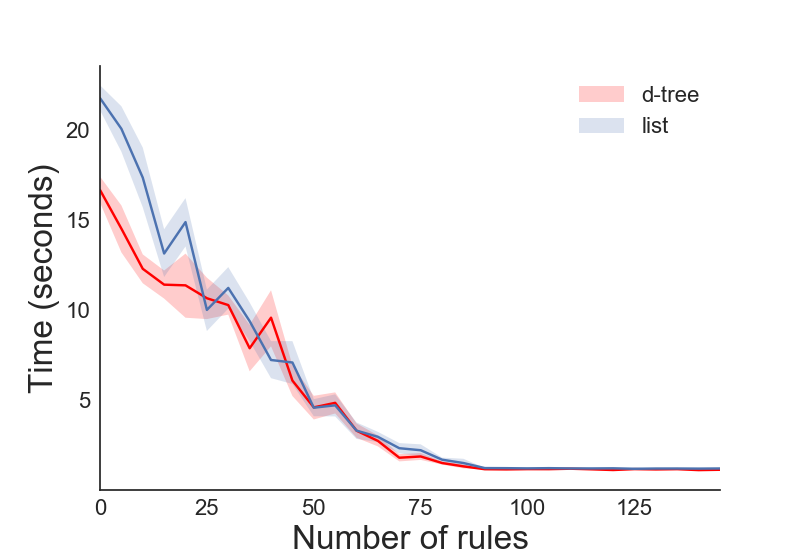
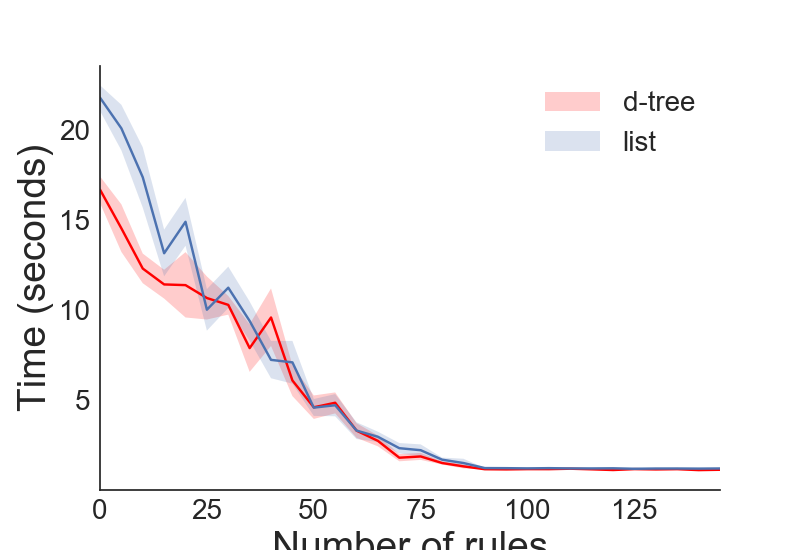
popl experiments

diff --git a/experiments/list_performance/generate_table.py b/experiments/list_performance/generate_table.py
@@ -1,0 +1,45 @@
+import csv
+from collections import defaultdict
+from glob import glob
+from argparse import ArgumentParser
+import os
+
+def load_file(filename):
+    output = defaultdict(lambda: 0)
+    row_count = 0
+    with open(filename, 'r') as f:
+        reader = csv.DictReader(f, delimiter="\t")
+        for row in reader:
+            row_count += 1
+            for experiment, value in row.items():
+                output[experiment] += float(value)
+    return {ex : (v / row_count) for ex, v in output.items()}
+
+def load_data(dirname):
+    data_files = glob(os.path.join(dirname, "*"))
+    output = {}
+    for f in data_files:
+        name = os.path.splitext(os.path.basename(f))[0]
+        data = load_file(f)
+        output[name] = data
+    return output
+
+def write_data(data, fields, filename):
+    with open(filename, "w") as f:
+        writer = csv.writer(f, delimiter="\t")
+        writer.writerow([""] + fields)
+        for ex, d in data.items():
+            writer.writerow([ex] + [d[k] for k in fields])
+
+if __name__ == '__main__':
+    parser = ArgumentParser()
+    parser.add_argument("data")
+    parser.add_argument("--output", "-o", default="table.csv")
+    parser.add_argument("--tags", "-t", nargs="+", default=["t"], choices=["t", "n", "p"])
+    args = parser.parse_args()
+
+    BMs = ["BU", "BUN", "BUNK", "TD", "TDN", "TDNK"]
+    FIELDS = [f for sublist in [list(map(lambda k: "{}_{}".format(ex, k), args.tags)) for ex in BMs] for f in sublist]
+
+    data = load_data(args.data)
+    write_data(data, FIELDS, args.output)

diff --git a/experiments/num_rules/fancy.py b/experiments/num_rules/fancy.py
@@ -31,7 +31,7 @@ bu = load_data("data/{}_{}.csv".format(args.benchmark, strat))
 bus = load_data("data/{}_{}_old.csv".format(args.benchmark, strat))
 
 # set up some formatting
-rc={'axes.labelsize': 24, 'legend.fontsize': 16, 'axes.titlesize': 32, 'xtick.labelsize': 16, 'ytick.labelsize': 16}
+rc={'axes.labelsize': 28, 'legend.fontsize': 24, 'axes.titlesize': 36, 'xtick.labelsize': 20, 'ytick.labelsize': 20}
 sns.set(style="white", rc=rc)
 
 # and plot the data
